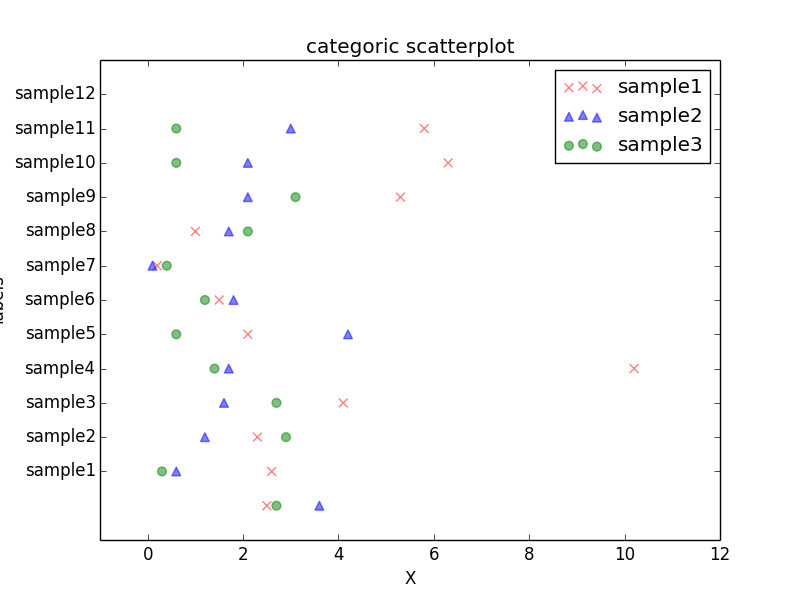
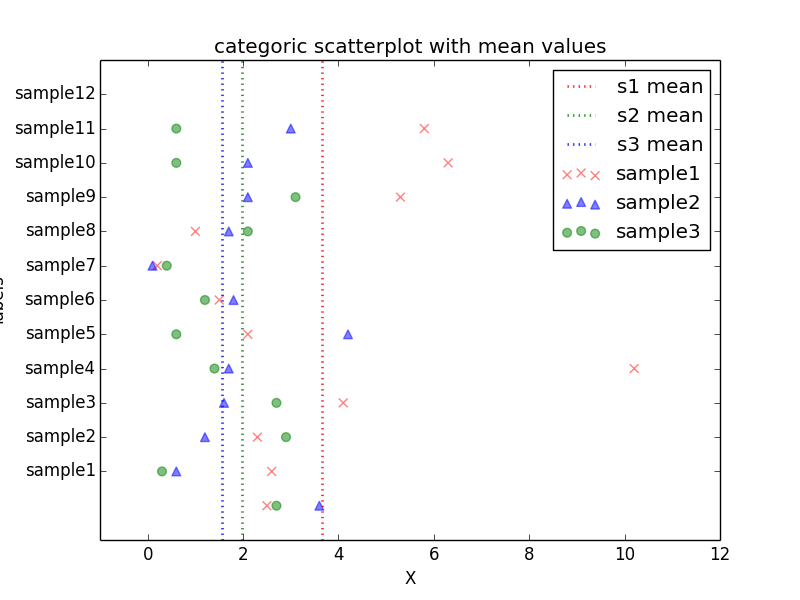
scatter with mean

Changed region(s): [[0.6875, 0.12, 0.9062, 0.42], [0.25, 0.06, 0.75, 0.09]]

diff --git a/scatterplots/categoric_scatter/categoric_scatter.py b/scatterplots/categoric_scatter/categoric_scatter.py
@@ -34,9 +34,9 @@ def read_csv_(file_loc):
                 line = line.strip().split(',')
                 print('line: ',line)
                 labels.append(line[0])
-                var1.append(line[1])
-                var2.append(line[2])
-                var3.append(line[3])                
+                var1.append(float(line[1]))
+                var2.append(float(line[2]))
+                var3.append(float(line[3]))                
     return labels, var1, var2, var3  
 
 def plot_rmsdplot(labels, var1, var2, var3):
@@ -47,19 +47,27 @@ def plot_rmsdplot(labels, var1, var2, var3):
     
     fig, ax = plt.subplots()
     
+    # plot annotations
     ax.set_ylabel('labels')
     ax.set_xlabel('X')
-    ax.set_title('categoric scatterplot')
+    ax.set_title('categoric scatterplot with mean values')
     ax.set_yticks(ind + width)
     ax.set_yticklabels(labels)
     
+    # scatterplots
     plt.scatter(var1, ind, color='r', alpha=0.5, marker='x', s=40)
     plt.scatter(var2, ind, color='b', alpha=0.5, marker='^', s=40)
     plt.scatter(var3, ind, color='g', alpha=0.5, marker='o', s=40)
     
+    # plotting mean values
+    plt.axvline(np.mean(var1), color='r', alpha=0.8, linestyle=':', linewidth=2)
+    plt.axvline(np.mean(var2), color='g', alpha=0.8, linestyle=':', linewidth=2)
+    plt.axvline(np.mean(var3), color='b', alpha=0.8, linestyle=':', linewidth=2)
+
+    # dimensions and legend
     plt.xlim(-1,12)
     plt.ylim(-1, N+1)
-    plt.legend(labels, loc='upper right')
+    plt.legend(['s1 mean', 's2 mean', 's3 mean'] + labels, loc='upper right')
     plt.show()
 
 data_file = './twelve_samples.csv'    

diff --git a/README.md b/README.md
@@ -53,6 +53,7 @@ Examples of matplotlib codes and plots
 <br>
 #### bar plot w. error bars - python_efficiency_tweaks
 
+<img src="url" alt="alt text" style="width:whatever;height:whatever">
 ![barplots/python_efficiency_tweaks/string_subst_bar.png](barplots/python_efficiency_tweaks/string_subst_bar.png)
 
 Script: [barplots/python_efficiency_tweaks/string_subst_bar.py](barplots/python_efficiency_tweaks/string_subst_bar.py)
